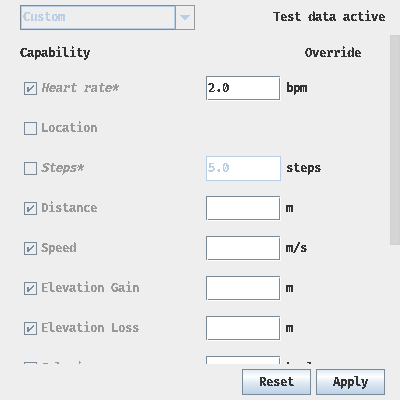
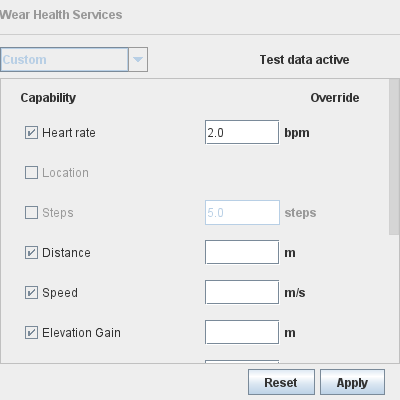
Only disable labels during exercise if the capability is
... disabled.

Bug: N/A
Test: manually tested

GitOrigin-RevId: d511be53fc9a15652effd56c8ed0cca83e1445a6

diff --git a/wear-whs/testSrc/com/android/tools/idea/wearwhs/view/WearHealthServicesContentPanelTest.kt b/wear-whs/testSrc/com/android/tools/idea/wearwhs/view/WearHealthServicesContentPanelTest.kt
@@ -229,14 +229,14 @@ class WearHealthServicesContentPanelTest {
     val fakeUi = FakeUi(whsPanel)
 
     fakeUi.waitForDescendant<ComboBox<Preset>> { it.isEnabled }
-    fakeUi.waitForDescendant<JCheckBox> { it.text.contains("Heart rate") && it.isEnabled }
-    fakeUi.waitForDescendant<JCheckBox> { it.text.contains("Steps") && it.isEnabled }
+    fakeUi.waitForDescendant<JCheckBox> { it.hasLabel("Heart rate") && it.isEnabled }
+    fakeUi.waitForDescendant<JCheckBox> { it.hasLabel("Steps") && it.isEnabled }
 
     deviceManager.activeExercise = true
 
     fakeUi.waitForDescendant<ComboBox<Preset>> { !it.isEnabled }
-    fakeUi.waitForDescendant<JCheckBox> { it.text.contains("Heart rate") && !it.isEnabled }
-    fakeUi.waitForDescendant<JCheckBox> { it.text.contains("Steps") && !it.isEnabled }
+    fakeUi.waitForDescendant<JCheckBox> { it.hasLabel("Heart rate") && !it.isEnabled }
+    fakeUi.waitForDescendant<JCheckBox> { it.hasLabel("Steps") && !it.isEnabled }
   }
 
   @Test
@@ -247,24 +247,24 @@ class WearHealthServicesContentPanelTest {
     val applyButton = fakeUi.waitForDescendant<JButton> { it.text == "Apply" }
     applyButton.doClick()
 
-    val hrCheckBox = fakeUi.waitForDescendant<JCheckBox> { it.text == "Heart rate" }
+    val hrCheckBox = fakeUi.waitForDescendant<JCheckBox> { it.hasLabel("Heart rate") }
     hrCheckBox.doClick()
 
-    fakeUi.waitForDescendant<JCheckBox> { it.text == "Heart rate*" }
+    fakeUi.waitForDescendant<JCheckBox> { it.hasLabel("Heart rate*") }
 
     applyButton.doClick()
 
-    fakeUi.waitForDescendant<JCheckBox> { it.text == "Heart rate" }
+    fakeUi.waitForDescendant<JCheckBox> { it.hasLabel("Heart rate") }
 
     deviceManager.activeExercise = true
     val textField = fakeUi.waitForDescendant<JTextField> { it.isVisible }
     textField.text = "50"
 
-    fakeUi.waitForDescendant<JCheckBox> { it.text == "Heart rate*" }
+    fakeUi.waitForDescendant<JCheckBox> { it.hasLabel("Heart rate*") }
 
     applyButton.doClick()
 
-    fakeUi.waitForDescendant<JCheckBox> { it.text == "Heart rate" }
+    fakeUi.waitForDescendant<JCheckBox> { it.hasLabel("Heart rate") }
   }
 
   @Test
@@ -299,9 +299,12 @@ class WearHealthServicesContentPanelTest {
     fakeUi.waitForDescendant<JLabel> { it.text == "bpm" && !it.isEnabled }
   }
 
-  private fun FakeUi.waitForCheckbox(text: String, selected: Boolean) = waitForDescendant<JCheckBox> {
-    it.text.contains(text) && it.isSelected == selected
+  private fun FakeUi.waitForCheckbox(text: String, selected: Boolean) = waitForDescendant<JCheckBox> { checkbox ->
+    checkbox.hasLabel(text) && checkbox.isSelected == selected
   }
+
+  private fun JCheckBox.hasLabel(text: String) =
+    parent.findDescendant<JLabel> { it.text.contains(text) } != null
 
   // The UI loads on asynchronous coroutine, we need to wait
   private inline fun <reified T> FakeUi.waitForDescendant(crossinline predicate: (T) -> Boolean = { true }): T {

diff --git a/wear-whs/src/com/android/tools/idea/wearwhs/view/WearHealthServicesPanel.kt b/wear-whs/src/com/android/tools/idea/wearwhs/view/WearHealthServicesPanel.kt
@@ -93,22 +93,24 @@ private fun createCenterPanel(
     capabilities.forEach { capability ->
       add(JPanel(BorderLayout()).apply {
         preferredSize = Dimension(0, 35)
-        val checkBox = JCheckBox(WearWhsBundle.message(capability.label)).also { checkBox ->
-          elementsToDisableDuringExercise.add(checkBox)
-          val plainFont = checkBox.font.deriveFont(Font.PLAIN)
-          val italicFont = checkBox.font.deriveFont(Font.ITALIC)
-          stateManager.getState(capability).map { it.capabilityState.enabled }.onEach { enabled ->
-            checkBox.isSelected = enabled
-          }.launchIn(uiScope)
+        val label = JLabel(WearWhsBundle.message(capability.label)).also { label ->
+          val plainFont = label.font.deriveFont(Font.PLAIN)
+          val italicFont = label.font.deriveFont(Font.ITALIC)
           stateManager.getState(capability).map { it.synced }.onEach { synced ->
             if (!synced) {
-              checkBox.font = italicFont
-              checkBox.text = "${WearWhsBundle.message(capability.label)}*"
+              label.font = italicFont
+              label.text = "${WearWhsBundle.message(capability.label)}*"
             }
             else {
-              checkBox.font = plainFont
-              checkBox.text = WearWhsBundle.message(capability.label)
+              label.font = plainFont
+              label.text = WearWhsBundle.message(capability.label)
             }
+          }.launchIn(uiScope)
+        }
+        val checkBox = JCheckBox().also { checkBox ->
+          elementsToDisableDuringExercise.add(checkBox)
+          stateManager.getState(capability).map { it.capabilityState.enabled }.onEach { enabled ->
+            checkBox.isSelected = enabled
           }.launchIn(uiScope)
           checkBox.addActionListener {
             workerScope.launch {
@@ -117,7 +119,12 @@ private fun createCenterPanel(
             }
           }
         }
-        add(checkBox, BorderLayout.CENTER)
+        stateManager.ongoingExercise.onEach {
+          label.isEnabled = !it || checkBox.isSelected
+        }.launchIn(uiScope)
+
+        add(checkBox, BorderLayout.LINE_START)
+        add(label, BorderLayout.CENTER)
         add(JPanel(FlowLayout()).apply {
           elementsToDisplayDuringExercise.add(this)
           add(JTextField().also { textField ->
